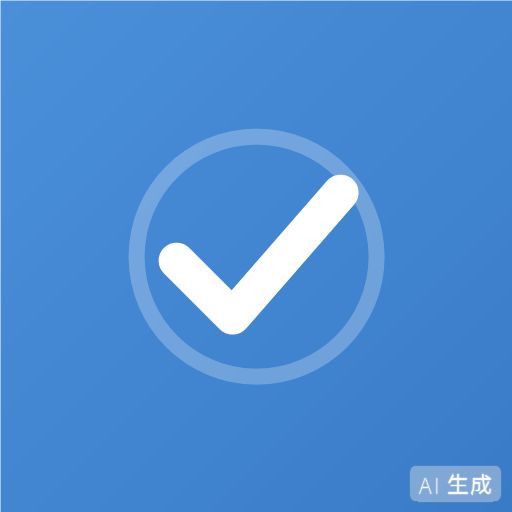
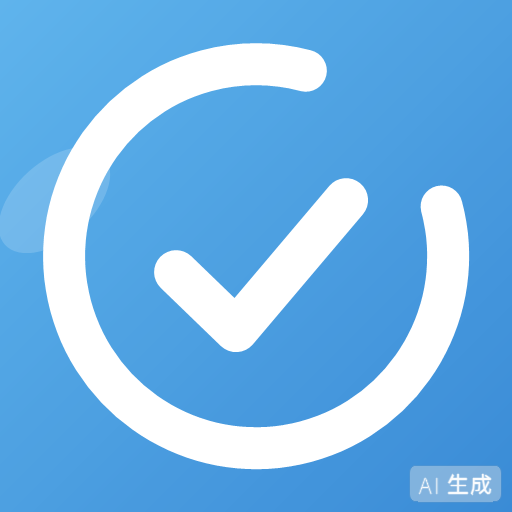
feat: v5.3 图标重绘——进度环 + 对勾（打卡完成语义）
- 替换原渐变蓝白✓图标，新设计：浅蓝→青蓝渐变圆角底 + 白色进度环
  （右上缺口）+ 居中白色对勾 + 左上玻璃高光
- 同步更新 icon.svg / icon-192.png / icon-512.png / icon-maskable-512.png
- sw.js 缓存名 v6→v7，强制已安装 PWA 拉取新图标并清理旧缓存
- 更新需求文档 v5.3 与 README 版本历程表

diff --git a/sw.js b/sw.js
@@ -1,5 +1,5 @@
 // Service Worker — 离线缓存（首次加载后可断网使用）
-const CACHE='habit-tracker-v6';
+const CACHE='habit-tracker-v7';
 const ASSETS=['/helper/','/helper/index.html','/helper/manifest.json','/helper/icon.svg','/helper/icon-192.png','/helper/icon-512.png','/helper/icon-maskable-512.png'];
 self.addEventListener('install',e=>{
   e.waitUntil(caches.open(CACHE).then(c=>c.addAll(ASSETS)).then(()=>self.skipWaiting()));

diff --git a/docs/儿童习惯养成工具-需求文档.md b/docs/儿童习惯养成工具-需求文档.md
@@ -163,7 +163,15 @@ AIGC:
 
 ## 六、版本记录
 
-### v5.2（本轮）触控滚动优化：内容不足时不再可拖动
+### v5.3（本轮）图标重绘：进度环 + 对勾（打卡完成语义）
+- **需求**：替换原渐变蓝底白✓图标，生成更漂亮、体现「打卡助手」含义的图标素材
+- **方案**：AI 生成 4 个概念方向（日历+勾 / 进度环+勾 / 奖章+勾 / 星星抱勾），用户选定**进度环 + 对勾**方案后，用 System.Drawing 重绘矢量版（AI 图带合规水印且为 JPG，不能直接作 PWA 素材）
+- **新图标设计**：浅蓝→青蓝对角渐变圆角方形底；白色进度环（右上角留缺口，象征接近完成）；环内居中白色对勾；左上角玻璃高光椭圆（半透明白，旋转 -42°）；白环/白勾均为圆头线（42/44px@512）
+- **交付物**：icon.svg（同设计矢量版）、icon-192.png、icon-512.png（圆角 any）、icon-maskable-512.png（满幅背景无圆角，主体居中安全区充足）
+- **sw.js 缓存名 v6→v7**：cache-first 下图标内容变化需升级缓存池名，强制已安装 PWA 拉取新图标并清理旧缓存
+- 实测验证：视觉模型逐项确认背景/缺口位置（右上）/对勾清晰/高光左上/居中留白；生成过程 0 文字绘制（无 AI 水印）；测试数据无影响
+
+### v5.2（历史）触控滚动优化：内容不足时不再可拖动
 - **问题**：安装为独立应用（standalone）后，安卓手机（小米 13 Ultra 实测）上内容很少时页面仍可按住向下拖动——拉到顶/底后露出背景色空隙再弹回
 - **原因**：① 安卓 Chrome 触摸滚动到边界触发 overscroll 橡皮筋回弹（露出背景色区域）；② 内容高度 + 底部 90px padding 略超视口时存在少量真实滚动空间
 - **修复**：

diff --git a/README.md b/README.md
@@ -98,6 +98,7 @@ helper/
 
 | 版本 | 主要内容 |
 |------|---------|
+| v5.3 | 图标重绘：进度环+对勾（打卡完成语义），SVG/192/512/maskable 全尺寸同步，缓存池升级 v7 |
 | v5.2 | 触控滚动优化：内容不足时禁止 overscroll 回弹、.app 撑满视口，内容少时不再可拖动 |
 | v5.1 | GitHub Pages 子路径部署修复（manifest/SW 改绝对路径 /helper/，修复安卓不显示安装）；状态栏主题色跟随成员实时变化 |
 | v5.0 | PWA 支持：添加 manifest.json + Service Worker 离线缓存，可「添加到主屏幕」standalone 全屏运行 |
